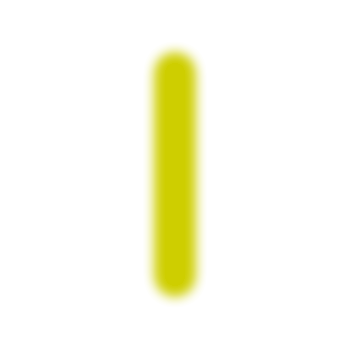
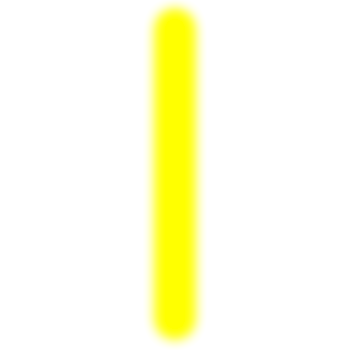
Ajuste en proyectil laser

Changed region(s): [[0.4, 0.0, 0.6, 1.0]]

diff --git a/tp2-codigo-fuente/tp2/modelo/especificaciones/ValoresDeArmas.java b/tp2-codigo-fuente/tp2/modelo/especificaciones/ValoresDeArmas.java
@@ -11,7 +11,7 @@ public class ValoresDeArmas {
 	public static int canionLaserVelocidad = 150;
 	public static double canionLaserFrecuencia = 20;
 	public static String canionLaserProyectilIdentificacion = "ProyectilLaser";
-	public static double canionLaserProyectilTamanio = 0.7;
+	public static double canionLaserProyectilTamanio = 0.9;
 	public static double canionLaserProyectilVelocidad = 0;
 	public static double canionLaserProyectilDanio = 15;
 	public static String laserIdentificacion = "Laser";
